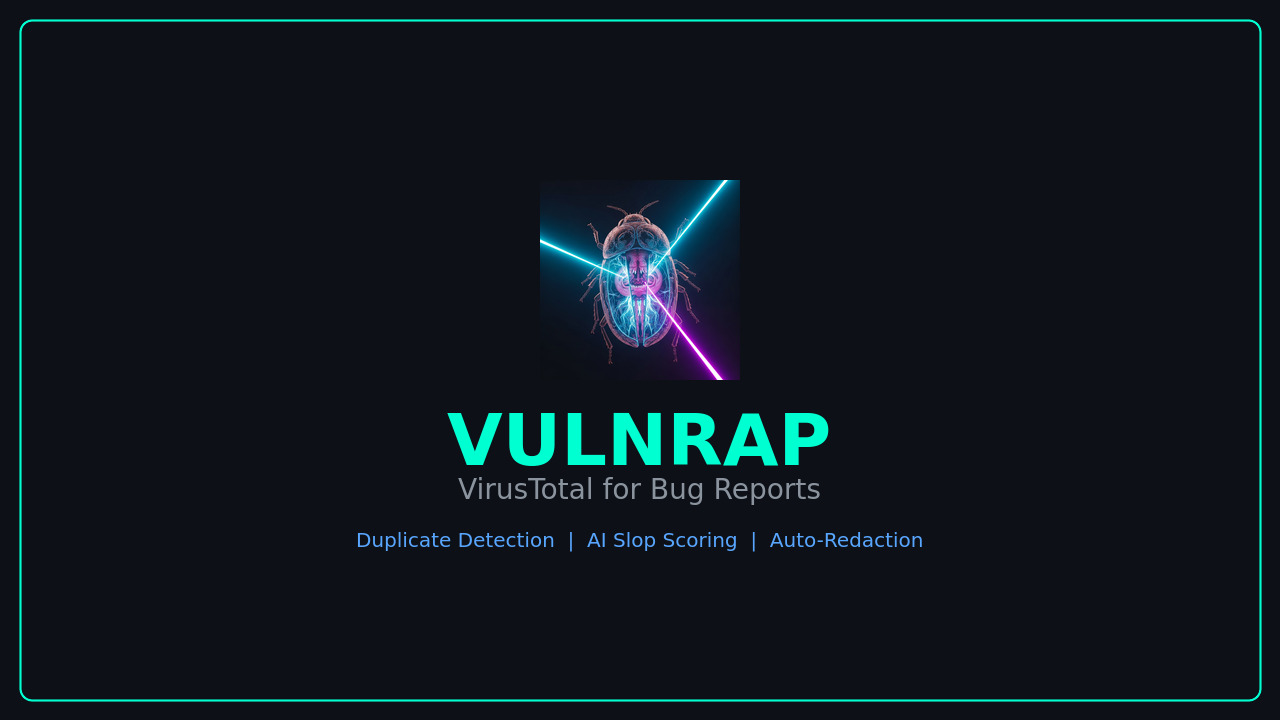
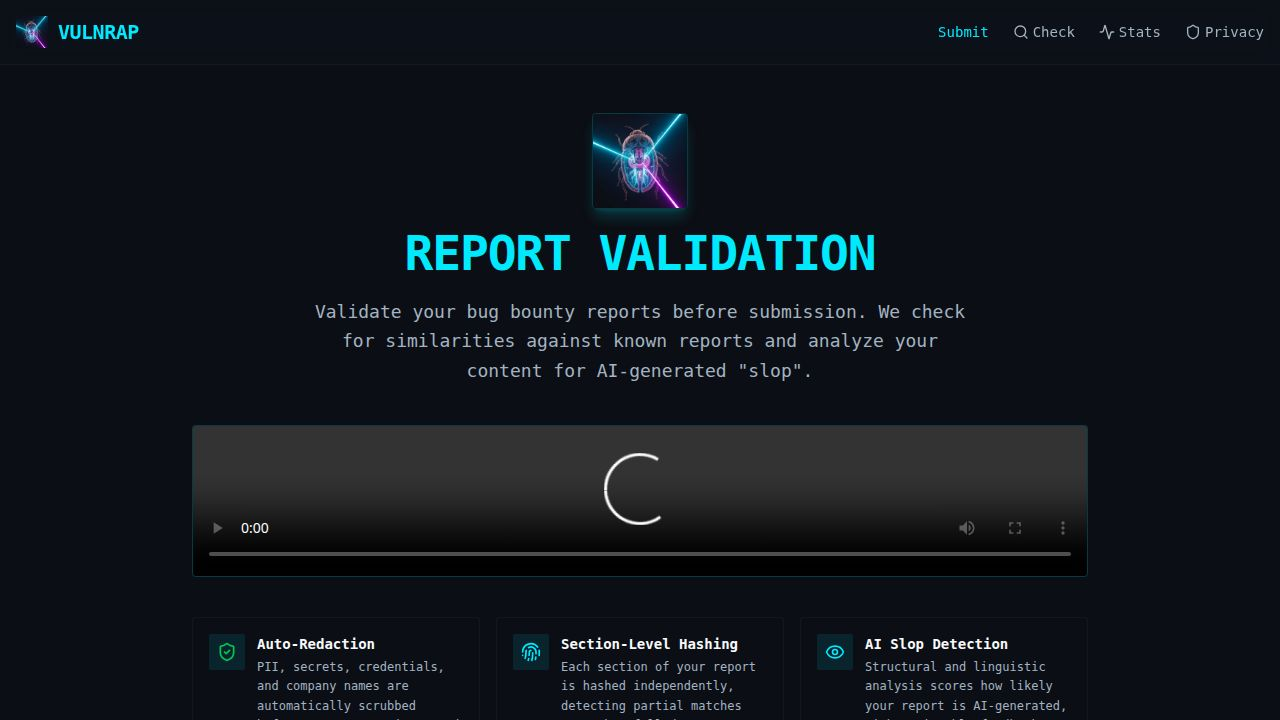
Add public report verification and a new report checking workflow
Securely generate verification URLs using environment variables and remove a duplicate API route. Add new pages for public verification and report checking, along with a verification badge on the results page.

Replit-Commit-Author: Agent
Replit-Commit-Session-Id: a9046ed4-3328-45bb-92bc-bf5a6308fcf9
Replit-Commit-Checkpoint-Type: full_checkpoint
Replit-Commit-Event-Id: e1633984-21b9-45a6-880a-0909d3e89545
Replit-Commit-Screenshot-Url: https://storage.googleapis.com/screenshot-production-us-central1/e258e6f9-49b6-4437-8f30-2fd592953871/a9046ed4-3328-45bb-92bc-bf5a6308fcf9/3mUmexH
Replit-Helium-Checkpoint-Created: true

Changed region(s): [[0.125, 0.1528, 0.875, 0.7944], [0.0, 0.8861, 1.0, 1.0], [0.0, 0.0, 1.0, 0.0611]]

diff --git a/artifacts/vulnrap/src/pages/results.tsx b/artifacts/vulnrap/src/pages/results.tsx
@@ -237,6 +237,45 @@ export default function Results() {
         </Card>
       </div>
 
+      {verification && (
+        <Card className="border-primary/20 bg-card/40 backdrop-blur">
+          <CardHeader>
+            <CardTitle className="flex items-center gap-2">
+              <Award className="w-5 h-5 text-primary" />
+              Verification Badge
+              <Hint text="Copy this badge and paste it into your bug bounty submission. It gives the receiver a link to independently verify your report's slop score and uniqueness." />
+            </CardTitle>
+            <CardDescription>Include this in your bug report to prove it was validated</CardDescription>
+          </CardHeader>
+          <CardContent className="space-y-4">
+            <div className="bg-muted/50 rounded-lg p-4 border border-border space-y-1">
+              <div className="flex items-center gap-2 text-sm">
+                <ShieldCheck className="w-4 h-4 text-green-500" />
+                <strong>VulnRap Verified</strong>
+                <span className="text-muted-foreground">|</span>
+                <span>Report {verification.reportCode}</span>
+              </div>
+              <div className="text-sm text-muted-foreground">
+                Score: <span className={getSlopColor(verification.slopScore)}>{verification.slopScore}/100</span> ({verification.slopTier})
+                {" | "}{verification.similarityMatchCount} similar report{verification.similarityMatchCount !== 1 ? "s" : ""}
+                {" | "}{verification.sectionMatchCount} section match{verification.sectionMatchCount !== 1 ? "es" : ""}
+              </div>
+              <div className="text-xs text-primary font-mono truncate">{verification.verifyUrl}</div>
+            </div>
+            <div className="flex gap-2">
+              <Button variant="outline" size="sm" className="gap-2" onClick={copyBadgeMarkdown}>
+                <Copy className="w-3.5 h-3.5" />
+                Copy as Markdown
+              </Button>
+              <Button variant="outline" size="sm" className="gap-2" onClick={copyBadgePlain}>
+                <Copy className="w-3.5 h-3.5" />
+                Copy as Plain Text
+              </Button>
+            </div>
+          </CardContent>
+        </Card>
+      )}
+
       {redactionSummary && redactionSummary.totalRedactions > 0 && (
         <Card className="bg-card/40 backdrop-blur border-green-500/20">
           <CardHeader>

diff --git a/artifacts/api-server/src/routes/reports.ts b/artifacts/api-server/src/routes/reports.ts
@@ -370,9 +370,10 @@ router.get("/reports/:id/verify", async (req, res): Promise<void> => {
   const matches = (report.similarityMatches as Array<{ reportId: number }>) || [];
   const secMatches = (report.sectionMatches as Array<{ sectionTitle: string }>) || [];
 
-  const host = req.get("host") || "vulnrap.com";
-  const protocol = req.get("x-forwarded-proto") || req.protocol;
-  const verifyUrl = `${protocol}://${host}/verify/${report.id}`;
+  const baseUrl = process.env.REPLIT_DEV_DOMAIN
+    ? `https://${process.env.REPLIT_DEV_DOMAIN}`
+    : process.env.PUBLIC_URL || "https://vulnrap.com";
+  const verifyUrl = `${baseUrl}/verify/${report.id}`;
 
   const response = GetVerificationResponse.parse({
     id: report.id,
@@ -421,45 +422,6 @@ router.get("/reports/:id", async (req, res): Promise<void> => {
     fileName: report.fileName,
     fileSize: report.fileSize,
     createdAt: report.createdAt,
-  });
-
-  res.json(response);
-});
-
-router.get("/reports/lookup/:hash", async (req, res): Promise<void> => {
-  const params = LookupByHashParams.safeParse(req.params);
-  if (!params.success) {
-    res.status(400).json({ error: params.error.message });
-    return;
-  }
-
-  const [report] = await db
-    .select()
-    .from(reportsTable)
-    .where(eq(reportsTable.contentHash, params.data.hash));
-
-  if (!report) {
-    const response = LookupByHashResponse.parse({
-      found: false,
-      reportId: null,
-      slopScore: null,
-      slopTier: null,
-      matchCount: 0,
-      firstSeen: null,
-    });
-    res.json(response);
-    return;
-  }
-
-  const matches = (report.similarityMatches as Array<{ reportId: number; similarity: number; matchType: string }>);
-
-  const response = LookupByHashResponse.parse({
-    found: true,
-    reportId: report.id,
-    slopScore: report.slopScore,
-    slopTier: report.slopTier,
-    matchCount: matches.length,
-    firstSeen: report.createdAt,
   });
 
   res.json(response);

diff --git a/artifacts/vulnrap/src/components/layout.tsx b/artifacts/vulnrap/src/components/layout.tsx
@@ -1,5 +1,5 @@
 import { Link, useLocation } from "react-router-dom";
-import { Activity, Shield } from "lucide-react";
+import { Activity, Shield, Search } from "lucide-react";
 import { cn } from "@/lib/utils";
 import logoSrc from "@/assets/logo.png";
 
@@ -16,7 +16,10 @@ export function Layout({ children }: { children: React.ReactNode }) {
           </Link>
           <nav className="flex items-center gap-6">
             <Link to="/" className={cn("text-sm font-medium transition-colors hover:text-primary", pathname === "/" ? "text-primary" : "text-muted-foreground")}>
-              Analyze
+              Submit
+            </Link>
+            <Link to="/check" className={cn("text-sm font-medium transition-colors hover:text-primary flex items-center gap-1", pathname === "/check" ? "text-primary" : "text-muted-foreground")}>
+              <Search className="w-4 h-4" /> Check
             </Link>
             <Link to="/stats" className={cn("text-sm font-medium transition-colors hover:text-primary flex items-center gap-1", pathname === "/stats" ? "text-primary" : "text-muted-foreground")}>
               <Activity className="w-4 h-4" /> Stats

diff --git a/artifacts/vulnrap/src/App.tsx b/artifacts/vulnrap/src/App.tsx
@@ -9,6 +9,8 @@ import Home from "@/pages/home";
 import Results from "@/pages/results";
 import Stats from "@/pages/stats";
 import Privacy from "@/pages/privacy";
+import Verify from "@/pages/verify";
+import Check from "@/pages/check";
 
 const queryClient = new QueryClient();
 
@@ -19,6 +21,8 @@ function AppRoutes() {
         <Routes>
           <Route path="/" element={<Home />} />
           <Route path="/results/:id" element={<Results />} />
+          <Route path="/verify/:id" element={<Verify />} />
+          <Route path="/check" element={<Check />} />
           <Route path="/stats" element={<Stats />} />
           <Route path="/privacy" element={<Privacy />} />
           <Route path="*" element={<NotFound />} />

diff --git a/replit.md b/replit.md
@@ -30,8 +30,10 @@ pnpm workspace monorepo using TypeScript. Each package manages its own dependenc
 - Dark terminal-inspired aesthetic with cyan/violet accents, Space Mono font
 - Custom AI-generated logo: synthetic bug inspected by lasers (`src/assets/logo.png`)
 - Pages:
-  - `/` — Home/upload with logo hero, 3 feature explainer cards, drag-and-drop upload, privacy mode selector, "How It Works" steps, hover hint tooltips
-  - `/results/:id` — Analysis results: slop score, auto-redaction summary, similarity matches, section-level analysis with per-section hashes, feedback, expandable redacted report view
+  - `/` — Home/submit with logo hero, 3 feature explainer cards, drag-and-drop upload, privacy mode selector, "How It Works" steps, hover hint tooltips
+  - `/results/:id` — Analysis results: slop score, auto-redaction summary, similarity matches, section-level analysis with per-section hashes, feedback, expandable redacted report view, verification badge with copy buttons
+  - `/check` — Receiver flow: paste/upload a report for read-only analysis (no storage), shows slop score, duplicates, redaction analysis
+  - `/verify/:id` — Public verification page: lightweight badge view with slop score, match counts, content hash, submission date
   - `/stats` — Platform statistics dashboard (metrics, distribution histogram, recent activity)
   - `/privacy` — Honest privacy policy: explains auto-redaction, what gets stored and compared, how comparison works, data lifecycle
 - Uses generated API hooks from `@workspace/api-client-react`
@@ -83,9 +85,16 @@ pnpm workspace monorepo using TypeScript. Each package manages its own dependenc
 - `similarity_results` table: pairwise similarity scores
 - `report_stats` table: aggregate counters
 
+### User Flows
+- **Submitters**: Upload/paste a report → get analysis results → copy verification badge (markdown or plain text) → share with bug bounty program
+- **Receivers**: Paste/upload an incoming report on `/check` → see slop score, duplicates, redaction analysis → nothing stored (read-only check)
+- **Verification**: Anyone with a verify link (`/verify/:id`) can independently confirm a report's slop score and uniqueness
+
 ### API Endpoints
 - `POST /api/reports` — Submit a report for analysis (multipart: file upload or rawText field, 20MB limit)
+- `POST /api/reports/check` — Check a report without storing (receiver flow, read-only analysis)
 - `GET /api/reports/:id` — Get report analysis results (includes redacted text, section hashes, redaction summary)
+- `GET /api/reports/:id/verify` — Lightweight verification badge data (slop score, match counts, verify URL)
 - `GET /api/reports/lookup/:hash` — Look up by SHA-256 hash
 - `GET /api/stats` — Platform-wide statistics
 - `GET /api/stats/recent` — Recent submission activity
